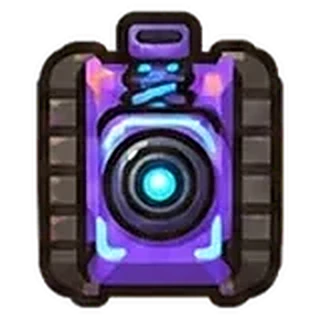
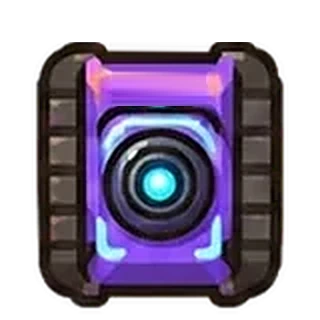
VER 63: Tesla without barrel, motion for static enemy sprites

Changed region(s): [[0.3438, 0.0312, 0.6562, 0.3438], [0.6875, 0.0938, 0.7812, 0.1562], [0.2188, 0.125, 0.3125, 0.1562]]

diff --git a/index.html b/index.html
@@ -2,7 +2,7 @@
 <html lang="ru">
 <head>
 <script>/* Telegram держит старый index.html в кэше. Если на сайте версия новее (ver.txt) — перезагружаемся с ?v=, это обходит кэш. Меняй VER и ver.txt вместе при выкладке */
-const VER = '62';
+const VER = '63';
 fetch('ver.txt?' + Date.now(), { cache: 'no-store' }).then(r => r.ok ? r.text() : '').then(v => { v = v.trim(); if (!v || v === VER) return; try { if (sessionStorage.vr === v) return; sessionStorage.vr = v; } catch (e) {} const q = new URLSearchParams(location.search); q.set('v', v); location.replace(location.pathname + '?' + q + location.hash); }).catch(() => {});
 </script>
 <meta charset="utf-8">
@@ -625,7 +625,12 @@ function drawEnemy(c, type, x, y, s, a, tm, e) {
     const fly = type === 'heli' || type === 'ghost' || type === 'bomber', ga = c.globalAlpha;
     if (e && (type === 'scout' || type === 'ghost')) c.globalAlpha = ga * (.55 + .12 * Math.sin(tm * 5));
     const sway = type === 'bomber' ? Math.sin(tm * 2) * .05 : fly ? Math.sin(tm * 3) * .06 : 0;
-    drawSpr(c, im, x, y, s, a + sway, { k: (SPR_K[type] || 1) * 1.12, alt: fly ? s * (type === 'bomber' ? .5 : .45) : 0, jit: !fly && e ? Math.sin(e.tread * 9) * s * .012 : 0,
+    if (!fly && e) {   // цельные спрайты: выхлопной дым сзади, чтобы было видно движение
+      const bx = x - Math.cos(a) * s * .75, by = y - Math.sin(a) * s * .75;
+      for (let i = 0; i < 3; i++) { const q = (tm * 1.6 + i / 3) % 1; c.fillStyle = `rgba(90,90,90,${.32 * (1 - q)})`; circ(c, bx - Math.cos(a) * q * s * .5 + Math.sin(tm * 7 + i) * s * .05, by - Math.sin(a) * q * s * .5, s * (.08 + q * .14)); c.fill(); }
+    }
+    drawSpr(c, im, x, y, s, a + sway + (!fly && e ? Math.sin(e.tread * 7) * .025 : 0), { k: (SPR_K[type] || 1) * 1.12, alt: fly ? s * (type === 'bomber' ? .5 : .45) : 0, jit: !fly && e ? Math.sin(e.tread * 9) * s * .03 : 0,
+      sc: !fly && e ? 1 + Math.sin(e.tread * 13) * .018 : 0,
       props: type === 'bomber' ? [[-.18, -.133, .045], [.18, -.133, .045]] : null, ptm: tm });
     if (type === 'heli' || type === 'ghost') {   // винт крутится поверх нарисованного
       c.save(); c.translate(x, y - s * .45); c.rotate(tm * 22); c.fillStyle = 'rgba(255,255,255,.1)'; circ(c, 0, 0, s * .72); c.fill();
@@ -680,9 +685,9 @@ const ALLY_LOOK = [{ h: '#3f7fd0', tur: 'dome', ts: .27, bar: 1, bl: .5, bw: .14
 /* Спрайты юнитов: img/units/{t|e}_id.webp — вид сверху, смотрят вверх, центр картинки = центр корпуса.
    Пока картинка не загрузилась — рисуем кодом (drawTank/drawEnemy). */
 const SPR = {};
-function spr(k) { let im = SPR[k]; if (!im) { im = SPR[k] = new Image(); im.src = `img/units/${k}.webp?v=2`; } return im.complete && im.naturalWidth ? im : null; }
+function spr(k) { let im = SPR[k]; if (!im) { im = SPR[k] = new Image(); im.src = `img/units/${k}.webp?v=3`; } return im.complete && im.naturalWidth ? im : null; }
 /* дуло: доля размера картинки от центра вверх */
-const SPR_TIP = { baraban: .275, bobr: .288, grad: .238, grom: .258, kuvalda: .275, mamont: .283, moroz: .288, oboz: .225, polar: .233, relsa: .308, shmel: .296, sokol: .35, tesla: .271, uskor: .312, vihr: .308, zavod: .238, zhar: .288 };
+const SPR_TIP = { baraban: .275, bobr: .288, grad: .238, grom: .258, kuvalda: .275, mamont: .283, moroz: .288, oboz: .225, polar: .233, relsa: .308, shmel: .296, sokol: .35, tesla: .02, uskor: .312, vihr: .308, zavod: .238, zhar: .288 };
 const SPR_K = { boss: .8, heli: .78, ghost: .78, bomber: .8 };
 /* Корпус h_id + башня u_id (вырезаны из цельных спрайтов): [смещение оси башни x, y; дуло] — доли картинки.
    h_id_1, h_id_2 — кадры бегущих траков. Без башни — цельный спрайт стоит, не крутится (SPR_STATIC). */
@@ -787,7 +792,7 @@ const ICON = {};
 const GIFTC = { red: ['#ff5b4f', '#ffd23f'], blue: ['#45a6ff', '#ffffff'], green: ['#5fcb45', '#ff5b4f'], purple: ['#b06bff', '#ffd23f'], gold: ['#ffc83a', '#ff4f9a'] };
 function icon(kind, id, size = 96, attrs, serial) {
   if (kind === 'b' || kind === 'bo') return `img/ui/box_${id}${kind === 'bo' ? '_o' : ''}.webp`;   // сундуки — нарисованные картинки (bo = открытый)
-  if ((kind === 't' && !attrs) || kind === 'e' && !(ENEMY[id] && ENEMY[id].code)) return `img/units/i_${kind}_${id}.webp?v=2`;   // танки и враги — нарисованные картинки (мифики с камуфляжем — кодом)
+  if ((kind === 't' && !attrs) || kind === 'e' && !(ENEMY[id] && ENEMY[id].code)) return `img/units/i_${kind}_${id}.webp?v=3`;   // танки и враги — нарисованные картинки (мифики с камуфляжем — кодом)
   if (kind === 'g') return `img/ui/gift${GIFTC[id] && id !== 'red' ? '_' + id : ''}.webp`;   // подарки дня — картинки 5 цветов
   const sk = attrs ? nftSkin(attrs, serial) : null, k = kind + id + size + (sk ? sk.h + sk.pt + sk.fl + sk.gr + sk.n : ''); if (ICON[k]) return ICON[k];
   const cv2 = document.createElement('canvas'); cv2.width = cv2.height = size * 2; const c = cv2.getContext('2d'); c.scale(2, 2);
